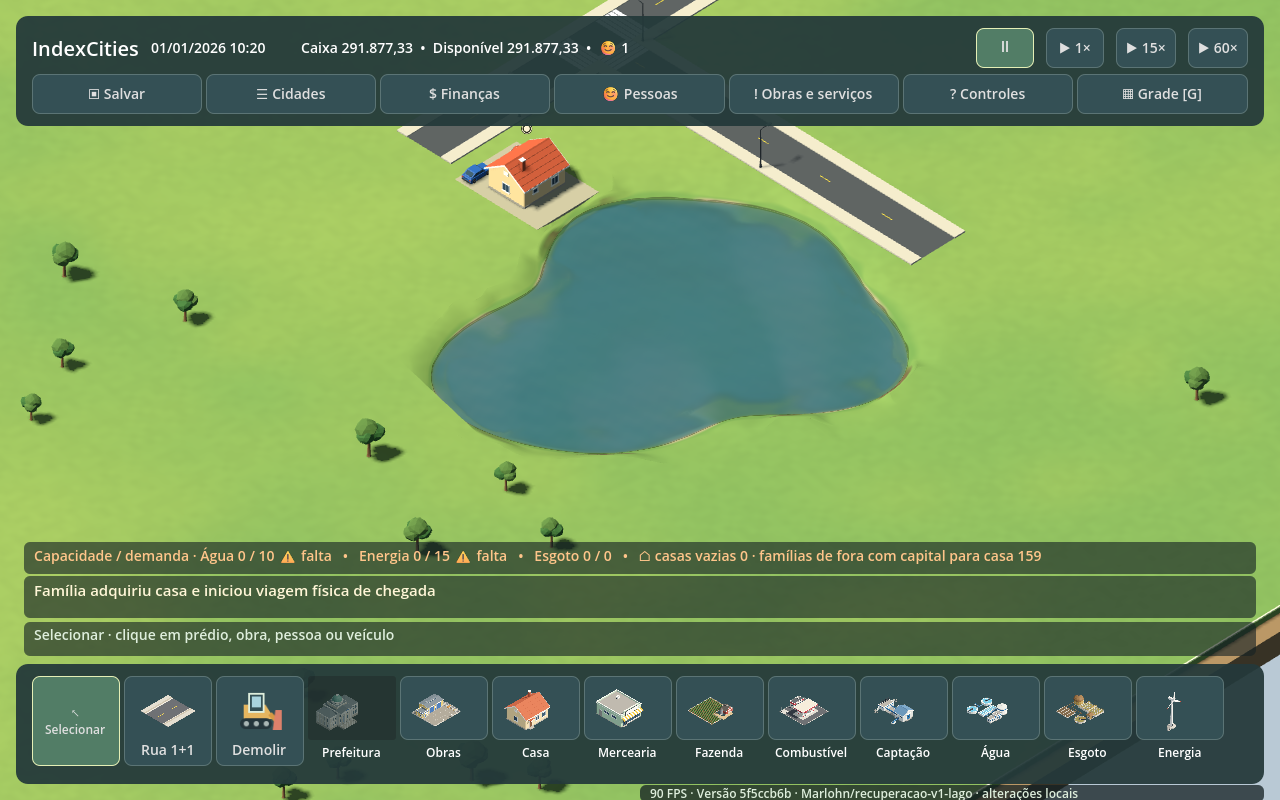
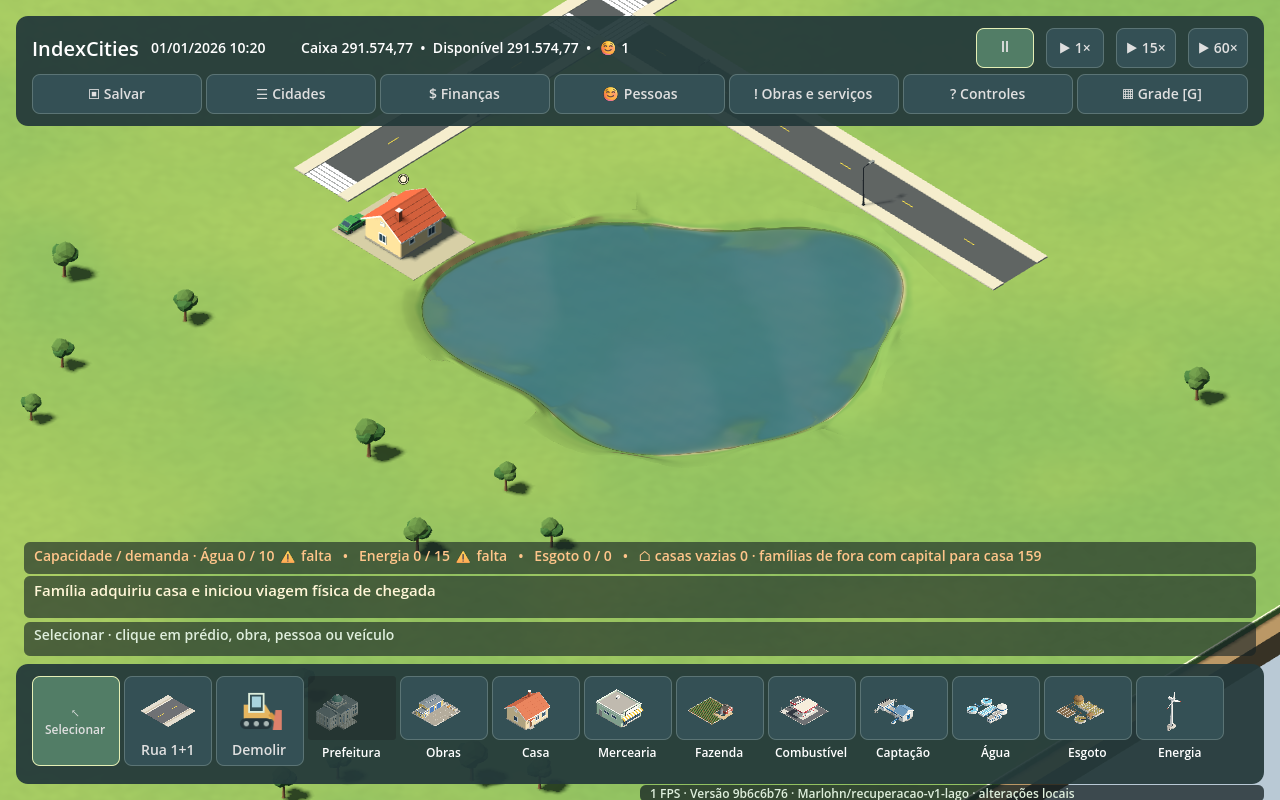
docs: registra correcoes da revisao e cenarios finais de margem

Changed region(s): [[0.2188, 0.1562, 0.8125, 0.5938], [0.5, 0.9688, 0.8438, 1.0], [0.4062, 0.0, 0.5625, 0.0312]]

diff --git a/docs/exploration/world-map-environment.md b/docs/exploration/world-map-environment.md
@@ -21,13 +21,15 @@ Este arquivo é material de exploração temática. Quando houver divergência, 
 
 O lago novo salva 128 vértices, usados pela água, pela validação de lotes/vias e pela distância de captação. Os mapas circulares continuam no esquema antigo, sem conversão. A malha e os materiais derivam da amostra D original do **Claude Opus 5.5**, com modelo/esforço `max` confirmados no Orca. O coordenador integrou picking sobre os triângulos renderizados, grade na superfície e apoio visual sob construções na margem (IA-023, **PENDENTE de revisão humana**), preservando as posições e obrigações reais. Não foi adicionado rio, recuo obrigatório, edição de terreno ou atividade fictícia.
 
-**Evidência do coordenador:** 169 testes passaram antes do delta estreito que repôs literalmente as expressões de borda do mapa antigo; depois, 19 testes pertinentes passaram. Build Godot sem avisos/erros. Cenário renderizado nas seeds 42/1412/2877: área da água e vértices coincidem com o contorno, 240 projeções de clique sobre água/margens, pausa, obras reais concluídas por caminhões/equipes, casa na margem com acesso, save/load e continuação de 20 minutos com JSON idêntico. Uma cópia isolada da cidade humana com 200 habitantes manteve círculo, geografia e consultas de captação. Logs em `artifacts/verification/water-integrated`; execução principal `rendered-19cf91962b0e46e7a5f96c2d4a0ce8b8`.
+**Evidência do coordenador:** 170 testes passaram na fonte final; 20 testes focados também passaram após as correções. Build Godot sem avisos/erros. Cenário renderizado nas seeds 42/1412/2877: área da água e vértices coincidem com o contorno, 240 projeções de clique sobre água/margens e pausa. Em cada seed, obras reais concluídas por caminhões/equipes, casa na margem com acesso, save/load e continuação de 20 minutos com JSON idêntico. Inclui três vistas próximas do contato do lote com a margem, em ângulo diagnóstico que não adiciona controle ao jogo. Uma cópia isolada da cidade humana com 200 habitantes manteve círculo, geografia e consultas de captação. Logs em `artifacts/verification/water-integrated`; execução final `rendered-7b96088a79b448dc843cfabad7002fde`.
 
 Na janela nativa, o coordenador conferiu a prévia vermelha sobre água, a recusa do clique, Esc, G fora da construção, giro por E e salvamento pelo HUD. O JSON da simulação salvo permaneceu estruturalmente idêntico ao inicial, com duas edificações. A ferramenta nativa não ofereceu F5 nem arrasto direito; esses gestos não foram declarados testados nesta rodada. Os saves normais do jogador não foram usados como destino.
 
-**Desempenho local:** em duas rodadas sequenciais de 15 segundos, a mesma cidade pequena (2 prédios, 126 nós viários, 1 morador), câmera e velocidade 60x ficou em aproximadamente 165 FPS, tanto na referência circular quanto no lago novo; intervalo médio de quadro 6,06 ms e p95 aproximadamente 6,31 ms. A referência foi uma cópia técnica do cenário convertida apenas para comparação, não uma migração de partida humana. A montagem do lago novo levou 331–479 ms nas três seeds medidas. Não é certificação para cidades grandes, outras GPUs ou build exportada.
+**Desempenho local:** em duas rodadas sequenciais de 15 segundos, a mesma cidade pequena (2 prédios, 126 nós viários, 1 morador), câmera e velocidade 60x ficou em aproximadamente 165 FPS, tanto na referência circular quanto no lago novo; intervalo médio de quadro 6,06 ms e p95 aproximadamente 6,31 ms. A referência foi uma cópia técnica do cenário convertida apenas para comparação, não uma migração de partida humana. A montagem final do lago novo levou 318–487 ms nas três seeds medidas. A comparação de FPS foi feita antes do último ajuste de variedade de contornos e continua limitada àquela cena salva. Não é certificação para cidades grandes, outras GPUs ou build exportada.
 
-**Revisão independente:** em andamento com Claude Haiku 5.5, modelo efetivo confirmado pelo Orca, em fallback automático. O preflight do DeepSeek falhou com `MISSING_CREDENTIAL` na rota local; não foi confirmada falta de créditos. Parecer e eventuais correções serão registrados na entrega integrada. A beleza da água, a leitura das margens e a experiência global continuam dependendo da partida humana.
+**Correções após a primeira revisão:** removida a repetição da forma a cada 97 seeds, usando os 32 bits do código para fases e amplitudes dentro do envelope anterior, sem consumir o RNG econômico. Contornos já salvos continuam iguais. As bases foram aproximadas do piso para reduzir o risco de fresta apontado pelo parecer, e a tabela de exploração foi corrigida. A descrição factual de JSON foi mantida na exploração, retirando a alteração canônica questionada. A grade segue sendo alinhamento, inclusive sobre a água, com a validade comunicada pela prévia; não foi inferida aprovação para mudar esse controle. Bases retangulares ainda podem parecer plataformas: as três vistas de contato ajudam a avaliação humana, sem afirmar aceitação estética.
+
+**Revisão independente:** primeira rodada concluída, sem achado alto/crítico; conferência das correções em andamento com Claude Haiku 5.5, modelo efetivo confirmado pelo Orca, em fallback automático. O preflight do DeepSeek falhou com `MISSING_CREDENTIAL` na rota local; não foi confirmada falta de créditos. Parecer e eventuais correções serão registrados na entrega integrada. A beleza da água, a leitura das margens e a experiência global continuam dependendo da partida humana.
 
 Comparação técnica controlada, com a mesma cidade pequena, câmera e horário: referência circular e mapa novo. Não são uma migração da cidade do jogador. O FPS no rodapé dessas capturas inclui a inicialização e não representa a medição estabilizada acima.
 
